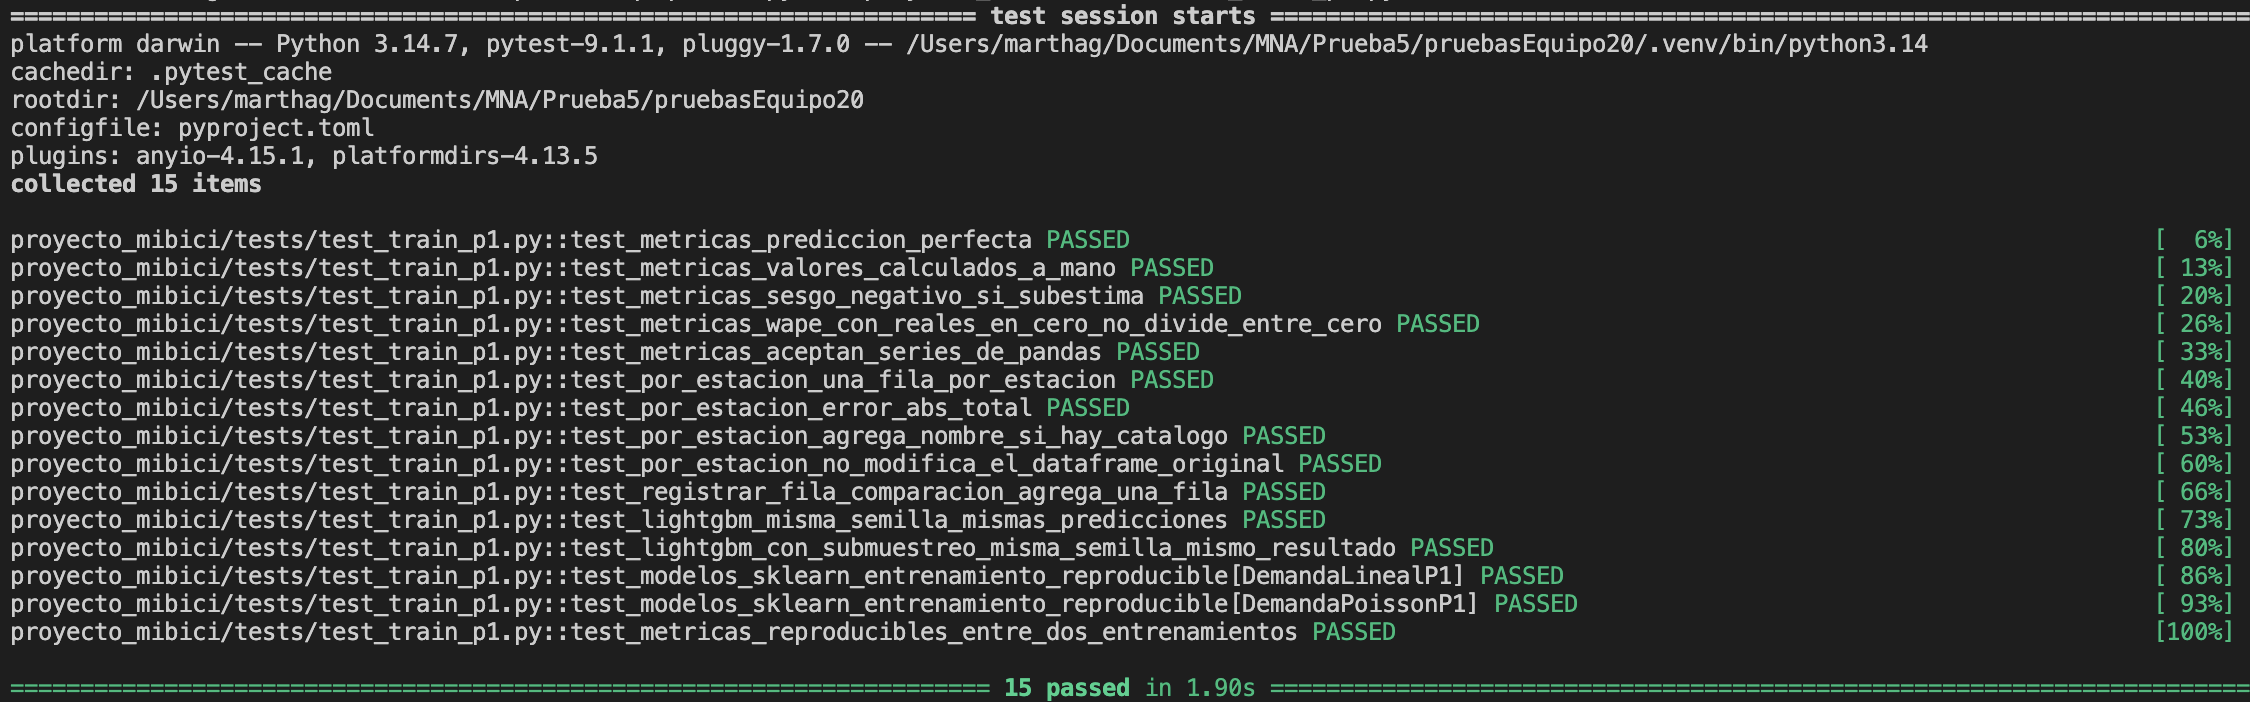
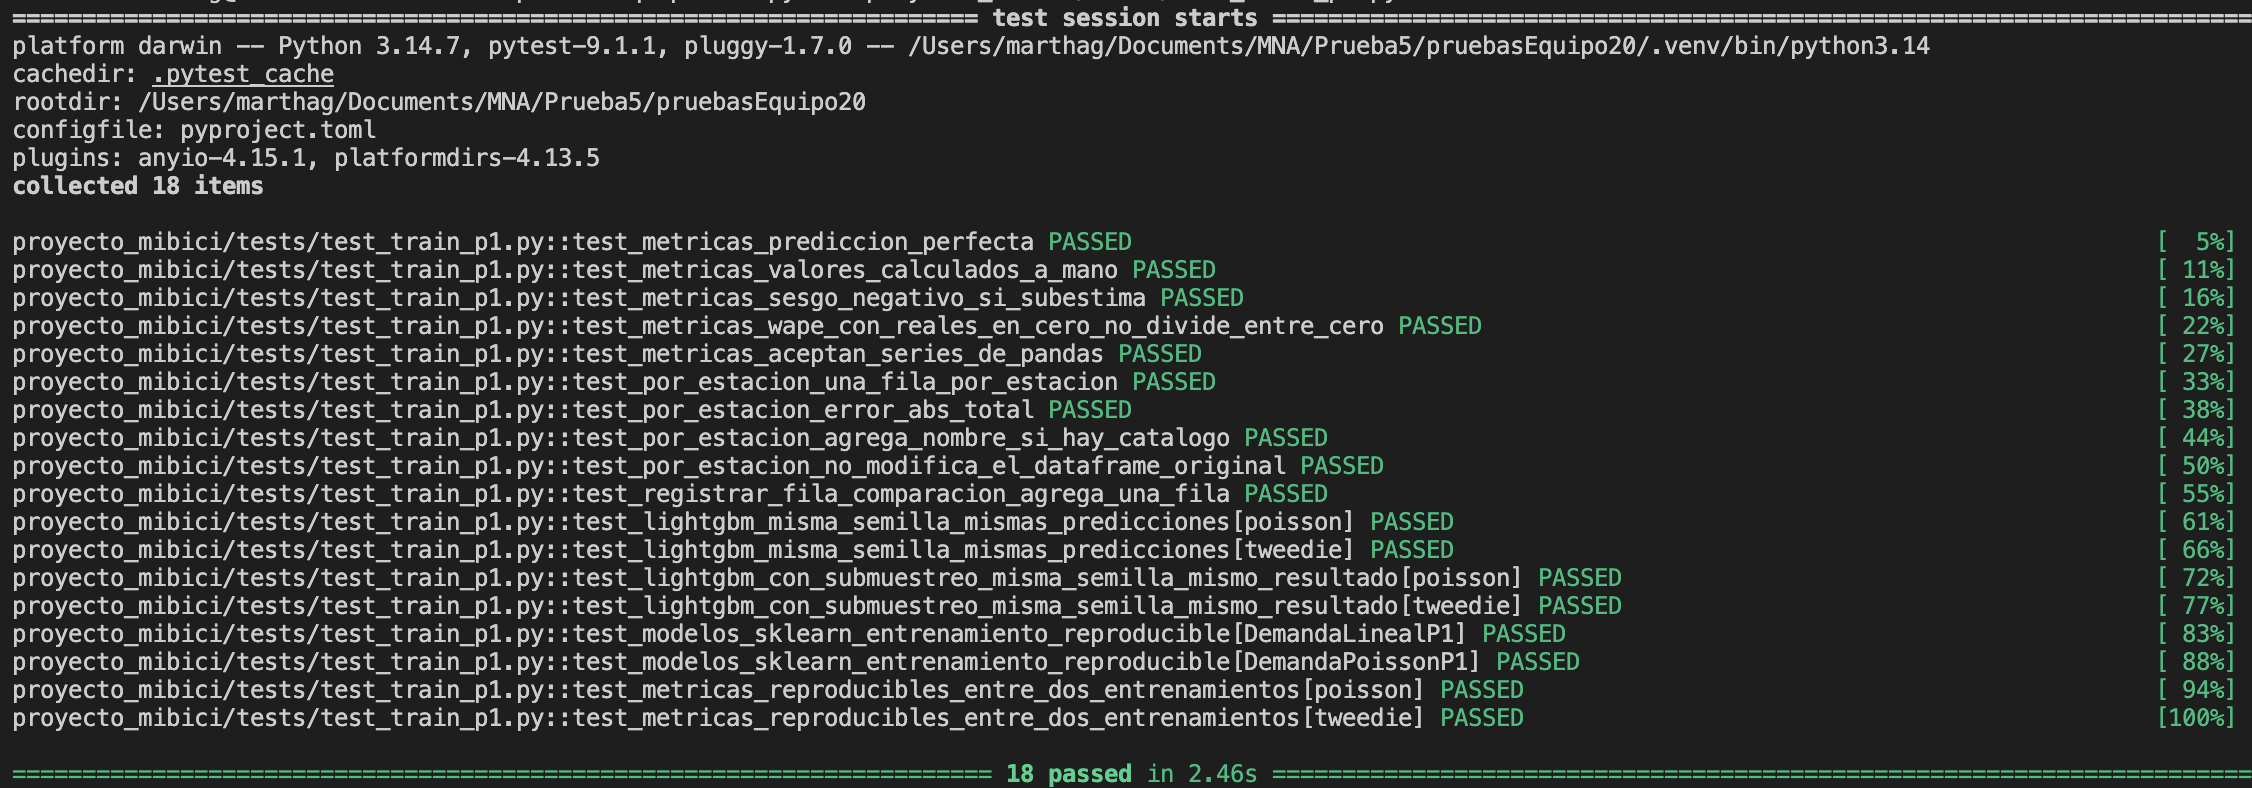
fix: agregar el lightgbm tweedie a las pruebas de train_p1

Changed region(s): [[0.0, 0.0, 0.9022, 0.9274], [0.0, 0.9573, 1.0, 1.0], [0.9644, 0.2991, 0.9956, 0.9274]]

diff --git a/proyecto_mibici/tests/test_train_p1.py b/proyecto_mibici/tests/test_train_p1.py
@@ -86,40 +86,51 @@ def test_registrar_fila_comparacion_agrega_una_fila():
 
 
 # ---------- REPRODUCIBILIDAD DEL ENTRENAMIENTO ----------
-
-def _lgbm(semilla):
-    # mismos hiperparámetros que usa entrenar_lgbm_candidato, pero más chico para que sea rápido
-    return lgb.LGBMRegressor(objective="poisson", learning_rate=0.1, num_leaves=15,
-                             n_estimators=50, random_state=semilla, verbose=-1)
-
-
-def test_lightgbm_misma_semilla_mismas_predicciones(datos_modelado):
+ 
+# Mismos objetivos que usa train_p1 (poisson y tweedie, este último es el champion).
+# Se reducen n_estimators y num_leaves para que la prueba corra en segundos.
+OBJETIVOS_LGBM = [
+    pytest.param({"objective": "poisson"}, id="poisson"),
+    pytest.param({"objective": "tweedie", "tweedie_variance_power": 1.8}, id="tweedie"),
+]
+ 
+ 
+def _lgbm(semilla, **objetivo):
+    return lgb.LGBMRegressor(learning_rate=0.1, num_leaves=15, n_estimators=50,
+                             random_state=semilla, verbose=-1, **objetivo)
+ 
+ 
+@pytest.mark.parametrize("objetivo", OBJETIVOS_LGBM)
+def test_lightgbm_misma_semilla_mismas_predicciones(objetivo, datos_modelado):
     X, y = datos_modelado
-    p1 = np.clip(_lgbm(RANDOM_SEED).fit(X, y).predict(X), 0, None)
-    p2 = np.clip(_lgbm(RANDOM_SEED).fit(X, y).predict(X), 0, None)
+    p1 = np.clip(_lgbm(RANDOM_SEED, **objetivo).fit(X, y).predict(X), 0, None)
+    p2 = np.clip(_lgbm(RANDOM_SEED, **objetivo).fit(X, y).predict(X), 0, None)
     np.testing.assert_array_equal(p1, p2)
-
-
-def test_lightgbm_con_submuestreo_misma_semilla_mismo_resultado(datos_modelado):
+ 
+ 
+@pytest.mark.parametrize("objetivo", OBJETIVOS_LGBM)
+def test_lightgbm_con_submuestreo_misma_semilla_mismo_resultado(objetivo, datos_modelado):
     """Con bagging activo la semilla SÍ importa: misma semilla = igual, otra semilla = distinto."""
     X, y = datos_modelado
     def entrenar(semilla):
-        return lgb.LGBMRegressor(objective="poisson", n_estimators=50, subsample=0.7,
-                                 subsample_freq=1, random_state=semilla, verbose=-1).fit(X, y).predict(X)
+        return lgb.LGBMRegressor(n_estimators=50, subsample=0.7, subsample_freq=1,
+                                 random_state=semilla, verbose=-1, **objetivo).fit(X, y).predict(X)
     np.testing.assert_array_equal(entrenar(1), entrenar(1))
     assert not np.array_equal(entrenar(1), entrenar(2))
-
-
+ 
+ 
 @pytest.mark.parametrize("Modelo", [DemandaLinealP1, DemandaPoissonP1])
 def test_modelos_sklearn_entrenamiento_reproducible(Modelo, datos_modelado):
     X, y = datos_modelado
     p1 = Modelo(features=list(X.columns)).fit(X, y).predict(X)
     p2 = Modelo(features=list(X.columns)).fit(X, y).predict(X)
     np.testing.assert_array_equal(p1, p2)
-
-
-def test_metricas_reproducibles_entre_dos_entrenamientos(datos_modelado):
+ 
+ 
+@pytest.mark.parametrize("objetivo", OBJETIVOS_LGBM)
+def test_metricas_reproducibles_entre_dos_entrenamientos(objetivo, datos_modelado):
     X, y = datos_modelado
-    m1 = evaluar_metricas_regresion(y, _lgbm(RANDOM_SEED).fit(X, y).predict(X), "Train")
-    m2 = evaluar_metricas_regresion(y, _lgbm(RANDOM_SEED).fit(X, y).predict(X), "Train")
+    m1 = evaluar_metricas_regresion(y, _lgbm(RANDOM_SEED, **objetivo).fit(X, y).predict(X), "Train")
+    m2 = evaluar_metricas_regresion(y, _lgbm(RANDOM_SEED, **objetivo).fit(X, y).predict(X), "Train")
     assert m1 == m2
+ 

diff --git a/README.md b/README.md
@@ -652,7 +652,7 @@ pytest -k "reproducible"                  # solo pruebas cuyo nombre contenga la
 | `test_model_p1.py` | `DemandaLinealP1` y `DemandaPoissonP1` | `fit`/`predict` con forma correcta y sin negativos; el pipeline expone el `scaler`; usa solo las `features` indicadas; falla si faltan columnas; `save`/`load` conserva las predicciones; la regresión lineal recupera una relación exacta |
 | `test_train_p1.py` | `evaluar_metricas_regresion` | MAE, RMSE, WAPE y sesgo verificados contra valores calculados a mano; caso con reales en cero |
 | `test_train_p1.py` | `calcular_metricas_por_estacion` y `registrar_fila_comparacion` | Una fila por estación; error absoluto total; unión con el catálogo de nombres; no modifica la entrada |
-| `test_train_p1.py` | **Reproducibilidad del entrenamiento** | Con la misma semilla, LightGBM, regresión lineal y Poisson producen predicciones idénticas; con submuestreo activo, otra semilla produce resultados distintos; las métricas de dos entrenamientos coinciden |
+| `test_train_p1.py` | **Reproducibilidad del entrenamiento** | 	Con la misma semilla, LightGBM (objetivos Poisson y Tweedie), regresión lineal y Poisson producen predicciones idénticas; con submuestreo activo, otra semilla produce resultados distintos; las métricas de dos entrenamientos coinciden |
 | `test_predict_p1.py` | `predecir_todos_los_modelos`, `generar_reporte_inferencia`, `cargar_modelo` | Columnas esperadas (4 baselines, v1, v2 y alias `demanda_predicha`); longitud correcta, sin NaN ni negativos; el alias coincide con v2; un modelo guardado y cargado predice igual que el original; fallback a `p1_linear_model.pkl`; error claro si falta el modelo o faltan columnas; no modifica la entrada; resultado determinista |
 
 > Las pruebas de inferencia guardan los modelos en una carpeta temporal (`tmp_path`), por lo que no tocan el directorio `models/` real.
@@ -668,9 +668,10 @@ Resultado esperado: todas las pruebas en verde (PASSED) al final.
 
 ![Ejecución de PyTest](docs/images/test_features_p1.png)
 
-#### test_train_p1.py - 15 pruebas aprobadas
+#### test_train_p1.py - 18 pruebas aprobadas
 
 ![Ejecución de PyTest](docs/images/test_train_p1.png)
+
 
 #### test_model_p1.py - 17 pruebas aprobadas
 
